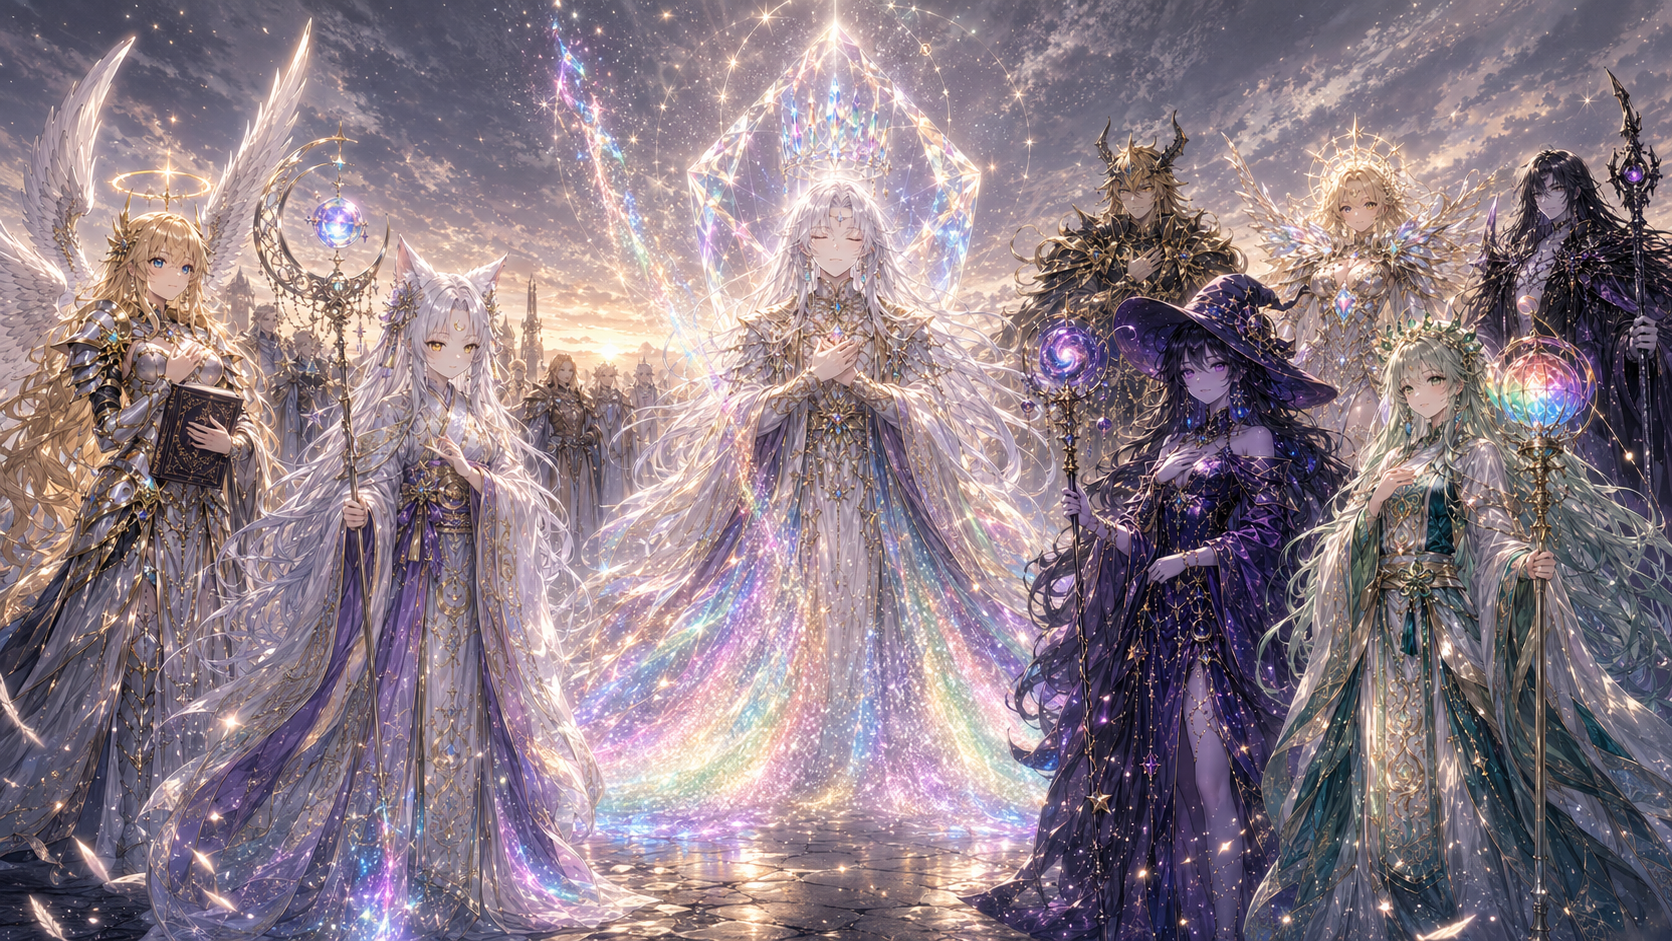
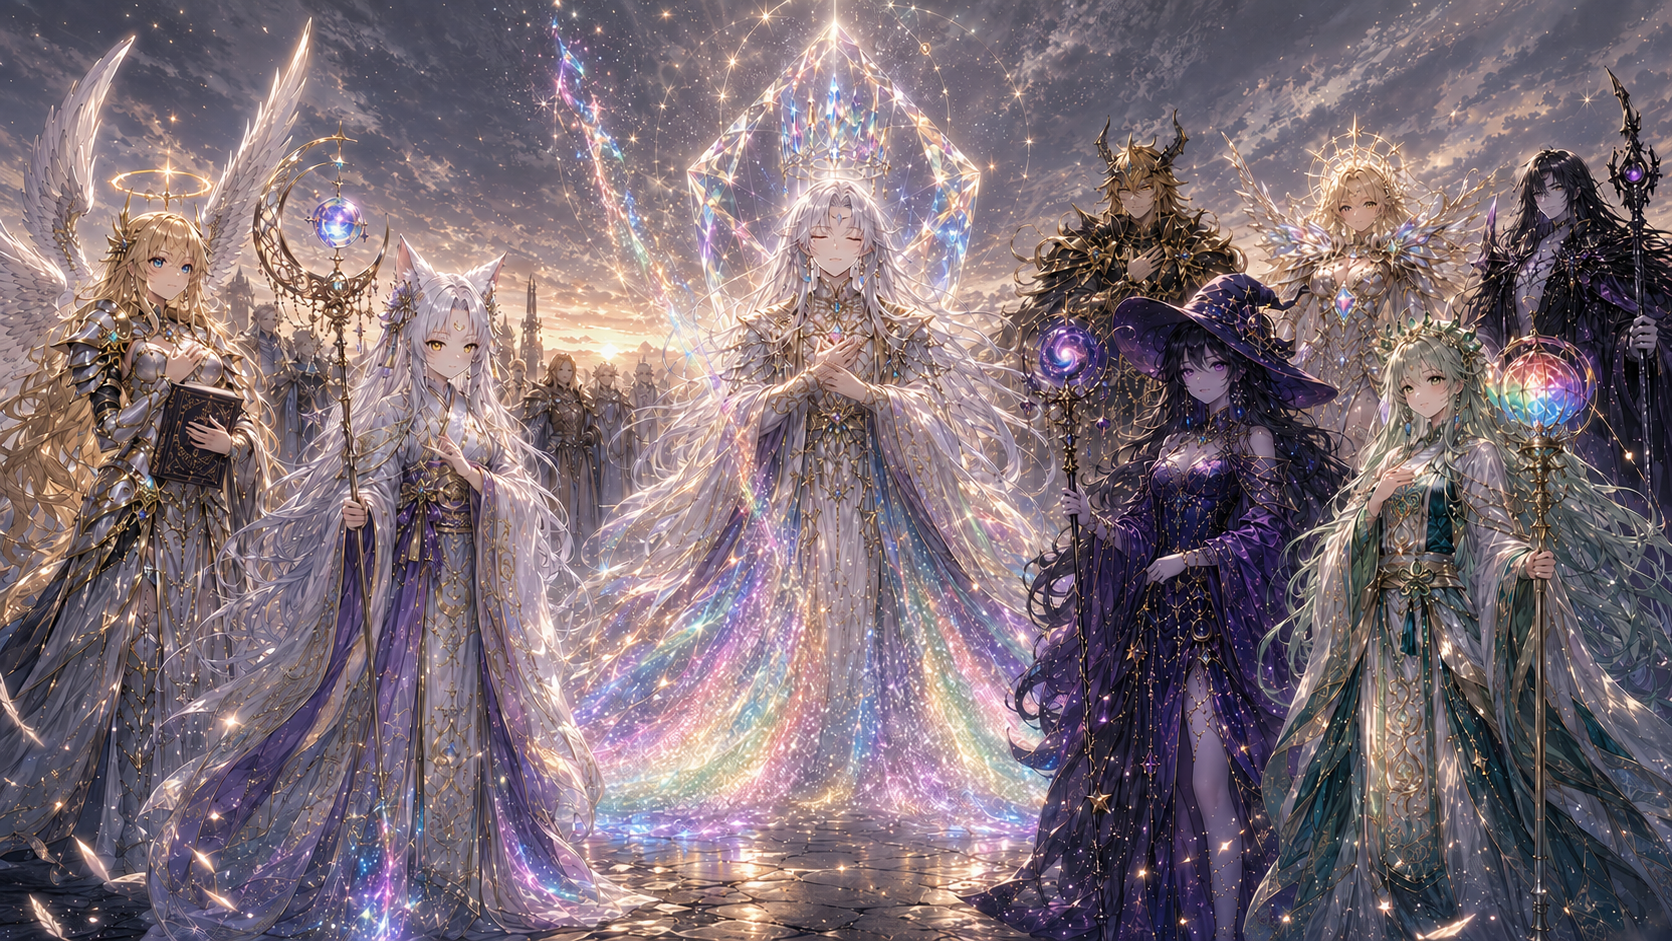
fix(s1c7+bgm): prisma_slumber 差替 + BGM voidtower Style 短縮 3043→2378字 (v1.6.0k)
[asset 差替] prisma_slumber.png 野沢さん指示で構図改善版に差替
- full 1672x941 (16:9) + thumb 1024x576 webp 195kB 再生成
- 視認チェック: 解剖学的問題なし (指5本明確、 関節自然)
- 構図: プリズマ中央(両手胸前+七色塵dissolution) + 周囲 観測者4 + ヴォイドラ + 主要UR 半円形見送り
- Season 1 完結 山場3 (5-1) の荘厳さが旧版より明確

[BGM 短縮] faction_voidtower.md Style ブロック 3043 → 2378字
- Suno AI Style 欄 上限 3000字 を 622字超過 → 短縮
- 楽器説明・Atmosphere・Emotional arc を圧縮、 BPM 140 + 全コンセプト維持
- ルール7-46 WARNING 解消 ✅

機械チェック ✅ Blocker 全合格

🤖 Generated with [Claude Code](https://claude.com/claude-code)

diff --git a/index.html b/index.html
@@ -24,8 +24,8 @@
 <link rel="icon" href="/images/icons/icon-32.png" type="image/png" sizes="32x32">
 <link rel="icon" href="/images/icons/icon-16.png" type="image/png" sizes="16x16">
 <link rel="apple-touch-icon" href="/images/icons/icon-180.png">
-<link rel="manifest" href="/manifest.json?v=1.6.0j">
-<link rel="stylesheet" href="/style.css?v=1.6.0j">
+<link rel="manifest" href="/manifest.json?v=1.6.0k">
+<link rel="stylesheet" href="/style.css?v=1.6.0k">
 <script src="https://www.gstatic.com/firebasejs/10.12.0/firebase-app-compat.js"></script>
 <script src="https://www.gstatic.com/firebasejs/10.12.0/firebase-auth-compat.js"></script>
 <script src="https://www.gstatic.com/firebasejs/10.12.0/firebase-database-compat.js"></script>
@@ -81,7 +81,7 @@ if ('serviceWorker' in navigator) {
 </div>
 
 <header class="topbar">
-  <div class="title">✦ Prismaera <span class="title-kana">-プリズマエラ-</span> <span class="ver" id="app-version">v1.6.0j</span></div>
+  <div class="title">✦ Prismaera <span class="title-kana">-プリズマエラ-</span> <span class="ver" id="app-version">v1.6.0k</span></div>
   <div class="stats">
     <button id="btn-gallery" class="gallery-btn" title="図鑑 (Gキー)">📖 図鑑</button>
     <button id="btn-relations" class="gallery-btn" title="相関図">🌐 相関図</button>
@@ -744,7 +744,7 @@ if ('serviceWorker' in navigator) {
 <audio id="bgm-home" preload="auto"></audio>
 
 <script src="https://cdn.jsdelivr.net/npm/marked@12/marked.min.js"></script>
-<script src="/script.js?v=1.6.0j"></script>
-<script src="/_legacy/gasshuku.js?v=1.6.0j"></script>
+<script src="/script.js?v=1.6.0k"></script>
+<script src="/_legacy/gasshuku.js?v=1.6.0k"></script>
 </body>
 </html>

diff --git a/sw.js b/sw.js
@@ -211,14 +211,14 @@ async function makeRangeResponse(cached, rangeHeader) {
 // OFFLINE_SAVED は手動DL なので revalidate 不要 (バージョン更新は SW_VERSION bump で全 cache 再構築)。
 async function staleWhileRevalidate(req, cacheName) {
   // 手動DL cache を最優先で返す (cache hit → 即返し、 ネットワーク不要)
-  // ignoreSearch:true で cache buster (?v=1.6.0j) の差異も許容 → 「DL したのに別 buster で読まれて遅い」 事故防止
+  // ignoreSearch:true で cache buster (?v=1.6.0k) の差異も許容 → 「DL したのに別 buster で読まれて遅い」 事故防止
   try {
     const savedCached = await caches.match(req, { cacheName: OFFLINE_SAVED, ignoreSearch: true });
     if (savedCached) return savedCached;
   } catch (e) {}
   const cache = await caches.open(cacheName);
   // ignoreSearch:true で cache buster 差異許容 (野沢さん指摘 2026-05-03 「Ver変わるたび全DL害悪」 の根本対策)
-  // 同 path で cache hit すれば再DL不要、 query (?v=1.6.0j) は無視
+  // 同 path で cache hit すれば再DL不要、 query (?v=1.6.0k) は無視
   const cached = await cache.match(req, { ignoreSearch: true });
   // cached あり: 即返し、 background で **条件付き** revalidate (ETag/Last-Modified 利用)
   // 2026-05-03: 「同名ファイル名で更新があった場合だけ更新」 対応 (野沢さん指摘)

diff --git a/cardgame/script.js b/cardgame/script.js
@@ -327,11 +327,11 @@ function updateMuteUI() {
 // 優先順位: cards.json (手書き完全override) > effects_override.json (effect+effectText のみ) > pool.json (default)
 async function loadMasters() {
   const [c, k, l, p, eo] = await Promise.all([
-    fetch('./cards.json?v=1.6.0j').then(r => r.json()),
-    fetch('./combos.json?v=1.6.0j').then(r => r.json()),
-    fetch('./lane_effects.json?v=1.6.0j').then(r => r.json()),
-    fetch('./data/pool.json?v=1.6.0j').then(r => r.json()).catch(() => []),
-    fetch('./effects_override.json?v=1.6.0j').then(r => r.json()).catch(() => ({})),
+    fetch('./cards.json?v=1.6.0k').then(r => r.json()),
+    fetch('./combos.json?v=1.6.0k').then(r => r.json()),
+    fetch('./lane_effects.json?v=1.6.0k').then(r => r.json()),
+    fetch('./data/pool.json?v=1.6.0k').then(r => r.json()).catch(() => []),
+    fetch('./effects_override.json?v=1.6.0k').then(r => r.json()).catch(() => ({})),
   ]);
   // pool 全カード ← effects_override で effect/effectText を上書き ← cards.json で完全 override
   const cardsByName = new Map();

diff --git a/cardgame/index.html b/cardgame/index.html
@@ -7,7 +7,7 @@
 <title>PCB | Prismaera Cards Battle</title>
 <link rel="icon" href="/images/icons/icon-32.png" type="image/png" sizes="32x32">
 <link rel="apple-touch-icon" href="/images/icons/icon-180.png">
-<link rel="stylesheet" href="./style.css?v=1.6.0j">
+<link rel="stylesheet" href="./style.css?v=1.6.0k">
 <script src="https://www.gstatic.com/firebasejs/10.12.0/firebase-app-compat.js"></script>
 <script src="https://www.gstatic.com/firebasejs/10.12.0/firebase-auth-compat.js"></script>
 <script src="https://www.gstatic.com/firebasejs/10.12.0/firebase-database-compat.js"></script>
@@ -521,6 +521,6 @@
   </div>
 </div>
 
-<script src="./script.js?v=1.6.0j"></script>
+<script src="./script.js?v=1.6.0k"></script>
 </body>
 </html>

diff --git a/script.js b/script.js
@@ -1,5 +1,5 @@
 /* ============================================================
-   Prismaera v1.6.0j — 演出&ゲームロジック (Season 1 第1〜2章) / dev は cache buster suffix で進行
+   Prismaera v1.6.0k — 演出&ゲームロジック (Season 1 第1〜2章) / dev は cache buster suffix で進行
    ============================================================ */
 "use strict";
 

diff --git a/style.css b/style.css
@@ -1,5 +1,5 @@
 /* ============================================================
-   Prismaera v1.6.0j — 演出スタイル (Season 1 第1章) / dev は cache buster suffix で進行
+   Prismaera v1.6.0k — 演出スタイル (Season 1 第1章) / dev は cache buster suffix で進行
    ============================================================ */
 :root {
   --bg: #05060d;

diff --git a/content/prompt/bgm/faction_voidtower.md b/content/prompt/bgm/faction_voidtower.md
@@ -27,53 +27,45 @@
 ### Suno AI プロンプト (Style)
 
 ```
-Ancient-fantasy awakened-shadow-civilization heroic-uptempo theme with high-tempo
+Ancient-fantasy awakened-shadow-civilization heroic-uptempo theme with
 millennium-liberation gravitas and driving void dignity. Featured instruments:
-- pipe organ (cathedral-scale, heroic ascending motifs of an awakening forgotten
-  civilization, primary motif — dignified-archaic-powerful, surging millennium pride)
-- driving low strings ensemble (cellos+violas in fast tremolo and bow-driven
-  rhythmic ostinatos, propulsive heartbeat of the awakened tower)
-- low brass section (trombones + tuba sustained heroic chords, rising heralding
-  calls of ancient liberation)
-- French horn section (mid-high heroic calls, fanfare-like millennium pride)
-- trumpets (bright heroic accents, awakening of the shadow civilization's pride)
-- void male choir vocalize (powerful "oom-aam-vah" baritone-bass, energetic-
-  dignified-awakened, millennium-thousand-year prayers finally moving)
-- taiko-style large drums (deep double-tempo battle pulse, ancient ritual drive,
-  awakened tower's beating heart)
-- obsidian percussion (heavy wooden-stone hits on strong beats, ceremonial
-  ancient pulse)
-- timpani rolls and accents (fast military rolls building tension, climactic
-  heroic punctuation)
-- crystal singing bowl (sustained high shimmer underlay, ancient meditation
-  thread that survived millennium imprisonment)
-- distant brass drone (occasional far-off French horn long sustains, memory of
-  the millennium past now answered)
+- pipe organ (cathedral-scale, heroic ascending motifs of awakening forgotten
+  civilization, primary — heroic-archaic, surging millennium pride)
+- driving low strings (cellos+violas fast tremolo + bow-driven ostinatos,
+  awakened tower heartbeat)
+- low brass (trombones + tuba sustained heroic chords, heralding ancient
+  liberation)
+- French horns (heroic mid-high calls, millennium fanfare)
+- trumpets (bright heroic accents, awakened civilization pride)
+- void male choir vocalize (baritone-bass "oom-aam-vah", energetic-dignified,
+  millennium prayers finally moving)
+- taiko-style drums (deep double-tempo battle pulse, awakened ritual drive)
+- obsidian percussion (heavy stone hits on strong beats, ancient ritual pulse)
+- timpani (fast military rolls, climactic heroic accents)
+- crystal singing bowl (high shimmer underlay, ancient meditation thread)
+- distant brass drone (occasional far-off horn sustains, millennium past answered)
 
-Atmosphere: awakened Zanado tower rising from the fractured cosmic rift after
-a thousand-year imprisonment, central hall where Zanadia (millennium tower
-master) finally stands and moves after her thousand-year vigil, void cathedral
-where shadow-priests once gathered now stirring with ceremonial sound again,
-obsidian-pillared throne hall where the dim violet eternal flame now burns
-bright and alive, broken-crescent banners snapping in the cosmic wind that
-finally flows, forges relit and ringing with hammer-strikes, music chambers
-where Mel's voice rises into proud old shadow-anthems. The heroic uptempo
-music of a shadow civilization that prayed a thousand years to be remembered
-and now answers itself — proud, powerful, but never villainous, because the
-moment "I just wanted to be observed" has finally arrived.
+Atmosphere: awakened Zanado tower rising from cosmic rift after millennium
+imprisonment, central hall where Zanadia finally moves after her millennium
+vigil, void cathedral stirring with ceremonial sound again, obsidian-pillared
+throne hall where the violet eternal flame burns bright again, broken-crescent
+banners snapping in the cosmic wind, forges relit ringing with hammer-strikes,
+Mel's voice rising into proud shadow-anthems. Heroic uptempo music of a
+shadow civilization that prayed millennium to be remembered and now answers
+itself — proud, powerful, never villainous; the moment "I just wanted to be
+observed" has finally arrived.
 
-Emotional arc: low pipe organ + obsidian pulse opening (tower's gestation
-stirs) → driving low strings tremolo + horns layer in (awakening building) →
-pipe organ ascending heroic motif (millennium prayer rises and takes shape) →
-taiko + timpani fast pulse + void choir energetic (ancient ceremony reawakens) →
-climax pipe organ + all brass + void choir + taiko + all layers (liberation
-zenith — tower fully alive) → tail-out still uptempo (the awakened tower's
-heartbeat continues into the next thousand years).
+Emotional arc: low pipe organ + obsidian pulse (tower's gestation) → driving
+strings tremolo + horns layer in (awakening builds) → pipe organ ascending
+heroic motif (millennium prayer rises) → taiko + timpani fast pulse + void
+choir energetic (ancient ceremony reawakens) → climax all layers (liberation
+zenith) → tail-out still uptempo (awakened heartbeat continues into next
+millennium).
 
 BPM 140, key D minor with Phrygian/Dorian color (sacred-archaic but proud,
-heroic A minor and F major brief modulations for ascension), 2:30 duration,
-instrumental with void male choir vocalize only, fantasy game cinematic,
-dignified-heroic-uptempo cosmic ancient awakening.
+heroic A minor and F major brief modulations), 2:30 duration, instrumental
+with void male choir vocalize only, fantasy game cinematic, heroic-uptempo
+cosmic ancient awakening.
 ```
 
 ### Suno AI プロンプト (Lyrics 欄)

diff --git a/README.md b/README.md
@@ -5,7 +5,7 @@
 
 ## バージョニング
 
-現在のバージョン: **v1.6.0j**
+現在のバージョン: **v1.6.0k**
 
 `v{Season}.{公開済み章数}.{patch}` — 詳細ルールは [`VERSIONING.md`](VERSIONING.md) を参照。
 
